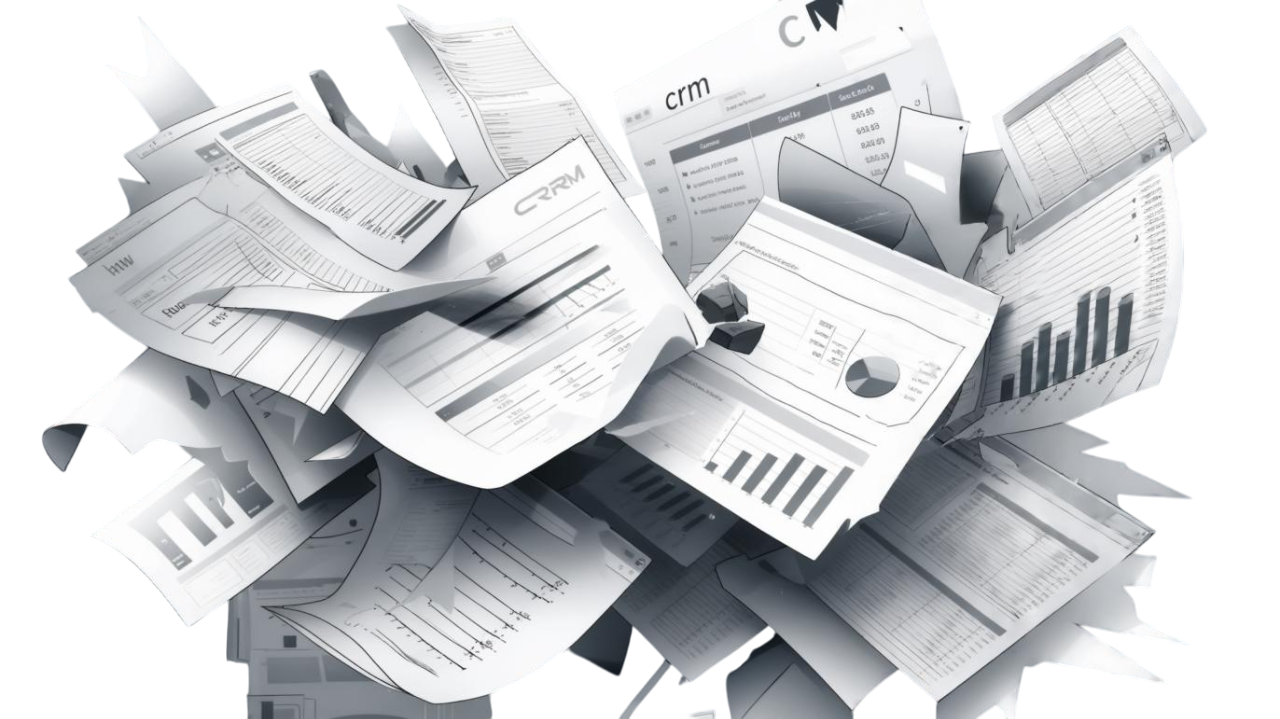
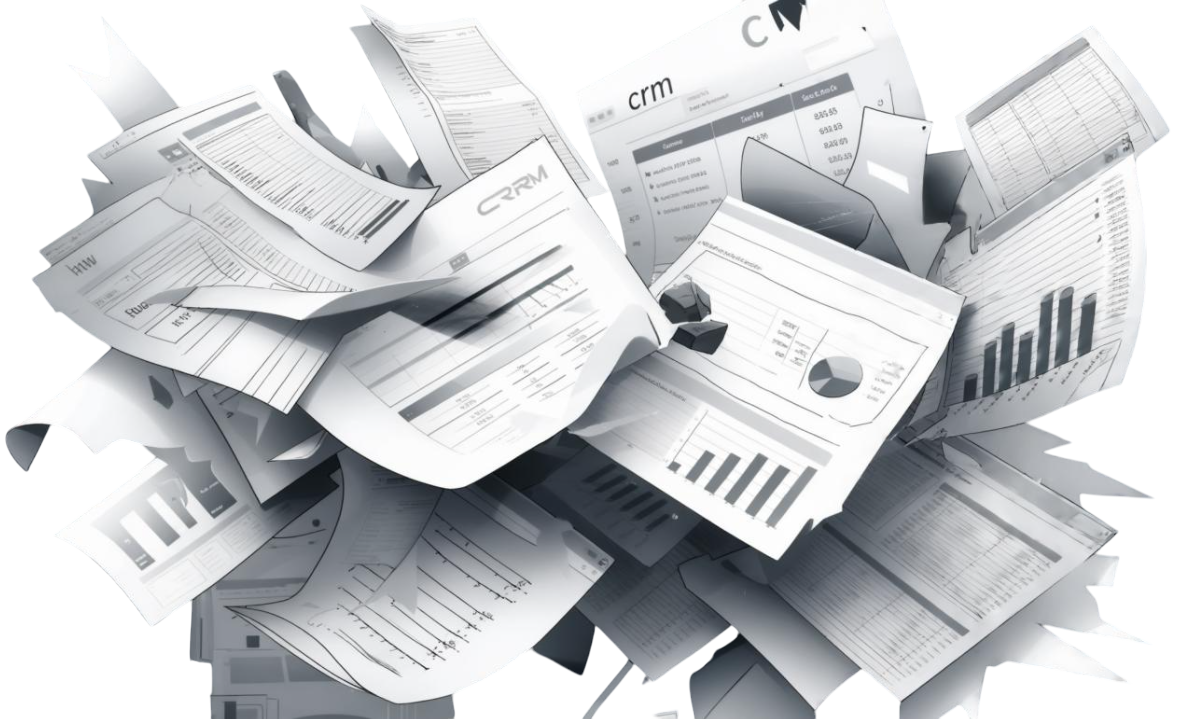
......

diff --git a/client/src/components/WhatWeDo.tsx b/client/src/components/WhatWeDo.tsx
@@ -138,7 +138,7 @@ export default function WhatWeDo() {
           </div>
 
           {/* Image Section */}
-          <div className="md:w-1/2 flex items-center justify-center">
+          <div className="md:w-2/5 flex items-center justify-center">
             <AnimatePresence mode="wait">
               <motion.div
                 key={activeChapter}
@@ -154,7 +154,7 @@ export default function WhatWeDo() {
                     chapters[activeChapter - 1].altText ||
                     chapters[activeChapter - 1].title
                   }
-                  className="object-cover w-full h-full "
+                  className="object-contain w-full h-full "
                 />
               </motion.div>
             </AnimatePresence>

diff --git a/client/src/components/Pricing.tsx b/client/src/components/Pricing.tsx
@@ -44,7 +44,7 @@ export default function Pricing() {
       name: "CFO Assist",
       price: "Custom",
       description: "Enterprise-grade solution with personalized support",
-      billingInfo: ["Billed quarterly", "Starting at €2500"],
+      billingInfo: ["Billed quarterly", "Starting at €833/Month"],
       features: [
         { text: "Everything in Pro+" },
         { text: "On demand expertise" },
